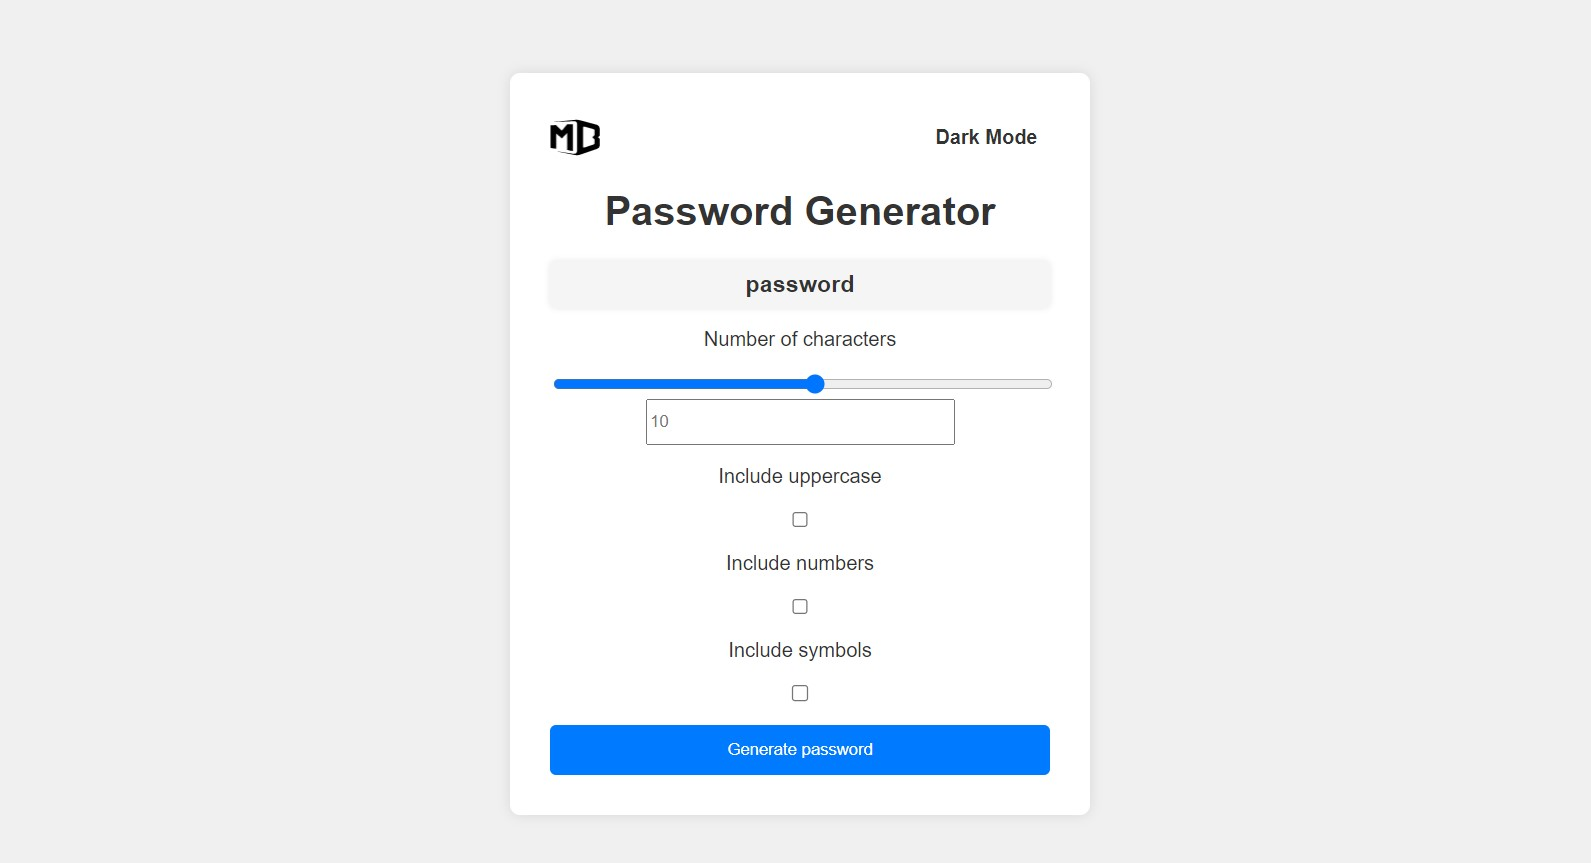
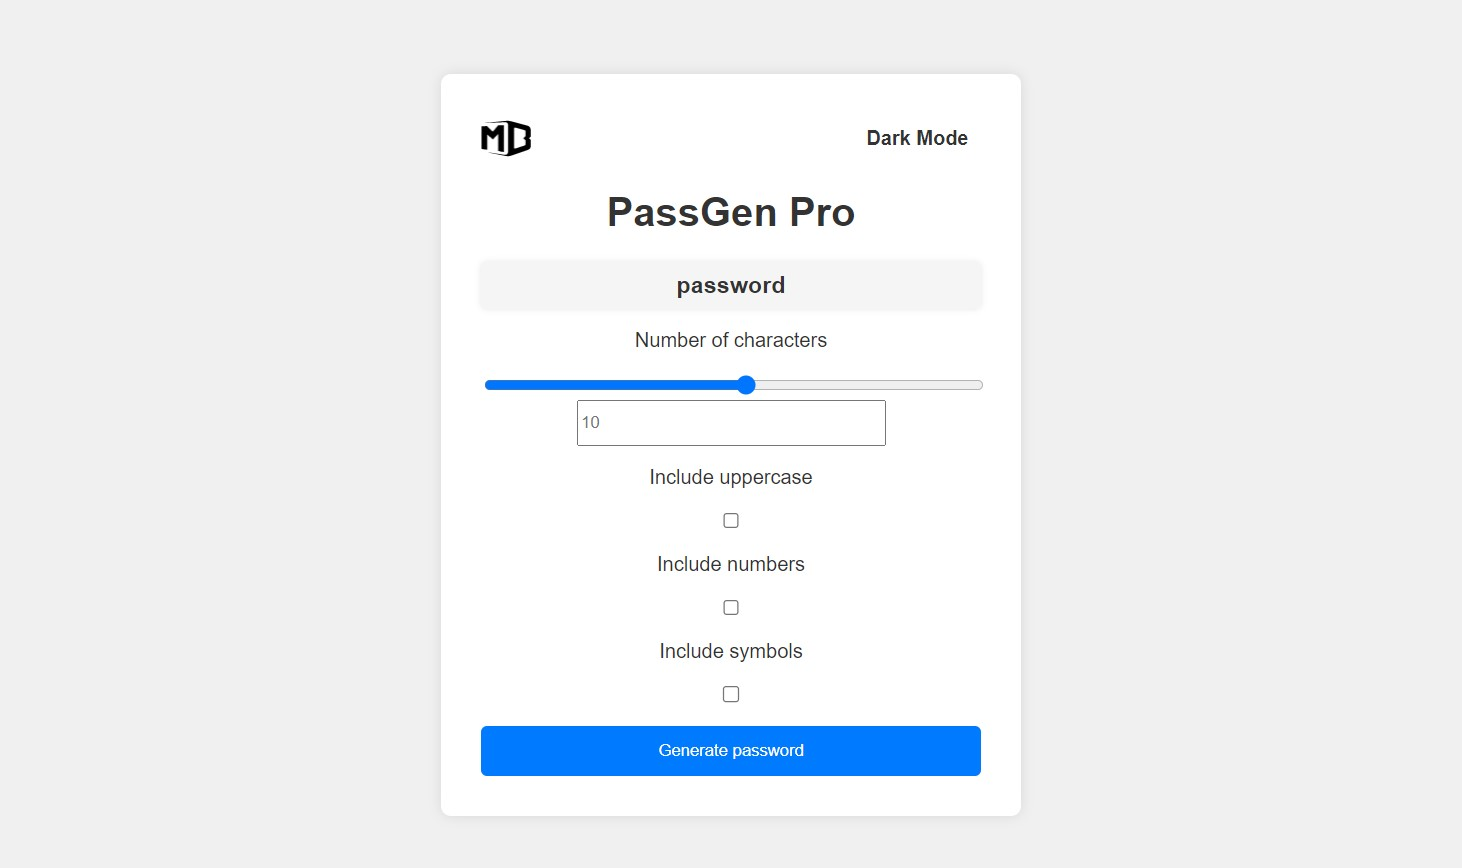
new style for gess num, new name pass gen pro

diff --git a/projectsJs/lvl1/guessNumber/style.css b/projectsJs/lvl1/guessNumber/style.css
@@ -1,5 +1,100 @@
-*{
+body {
+    background-color: #f0f0f0;
     margin: 0;
-    padding: 0;
-    font-size: xx-large;
-}
+    color: #333;
+    font-family: Arial, sans-serif;
+    height: 100vh;
+    display: flex;
+    justify-content: center;
+    align-items: center;
+    transition: background-color 0.3s, color 0.3s;
+  }
+  
+  .dark-mode {
+    background-color: #333;
+    color: #fff;
+  }
+  
+  .container {
+    background-color: #fff;
+    padding: 2rem;
+    border-radius: 0.5rem;
+    box-shadow: 0 0 10px rgba(0, 0, 0, 0.1);
+    text-align: center;
+    max-width: 400px;
+    width: 100%;
+  }
+  
+  .logo {
+    width: 40px;
+    height: 30px;
+    filter: invert(1);
+  }
+  
+  button#themeToggle {
+    color: #333;
+    background-color: transparent;
+    padding: 10px;
+    font-size: 16px;
+    font-weight: 700;
+    cursor: pointer;
+    z-index: 999;
+  }
+  
+  .dark-mode .logo {
+    filter: invert(0);
+  }
+  
+  h1 {
+    margin-bottom: 20px;
+  }
+  
+  input[type="number"] {
+    width: 100%;
+    padding: 10px;
+    margin-bottom: 10px;
+    border-radius: 0.3rem;
+    border: 1px solid #ccc;
+  }
+  
+  button#guessButton {
+    background-color: #007bff;
+    color: #fff;
+    border: none;
+    border-radius: 0.3rem;
+    padding: 10px 20px;
+    cursor: pointer;
+    transition: background-color 0.3s;
+  }
+  
+  button#guessButton:hover {
+    background-color: #0056b3;
+  }
+  
+  #message {
+    margin-top: 20px;
+  }
+  
+  .dark-mode .container {
+    background-color: #222;
+    color: #fff;
+  }
+  
+  .dark-mode input[type="number"],
+  .dark-mode button#guessButton {
+    background-color: #444;
+    color: #fff;
+  }
+  
+  .dark-mode #message {
+    color: #fff;
+  }
+  
+  button#themeToggle:hover {
+    color: #333;
+  }
+  
+  .dark-mode button#themeToggle {
+    color: #fff;
+  }
+  

diff --git a/projectsJs/lvl1/guessNumber/index.html b/projectsJs/lvl1/guessNumber/index.html
@@ -8,11 +8,12 @@
     <script src="app.js" defer></script>
 </head>
 <body>
-    <h1>Gra w zgadywanie liczby</h1>
-    <p>Podaj liczbę od 0 do 99:</p>
-    <input type="number" id="guessInput">
-    <button id="guessButton">Zgadnij!</button>
-    <p id="message"></p>
-    
-</body>
+    <div class="container">
+      <h1>Gra w zgadywanie liczby</h1>
+      <p>Podaj liczbę od 0 do 99:</p>
+      <input type="number" id="guessInput">
+      <button id="guessButton">Zgadnij!</button>
+      <p id="message"></p>
+    </div>
+  </body>
 </html>

diff --git a/projectsJs/lvl2/passwordGenerator/index.html b/projectsJs/lvl2/passwordGenerator/index.html
@@ -15,7 +15,7 @@
   <button id="themeToggle">Dark Mode</button>
 </div>
    
-    <h1>Password Generator</h1>
+    <h1>PassGen Pro</h1>
     <h3 id="password">password</h3>
     <form action="generator" id="generatorForm">
       <label for="range" id="number">Number of characters</label>
